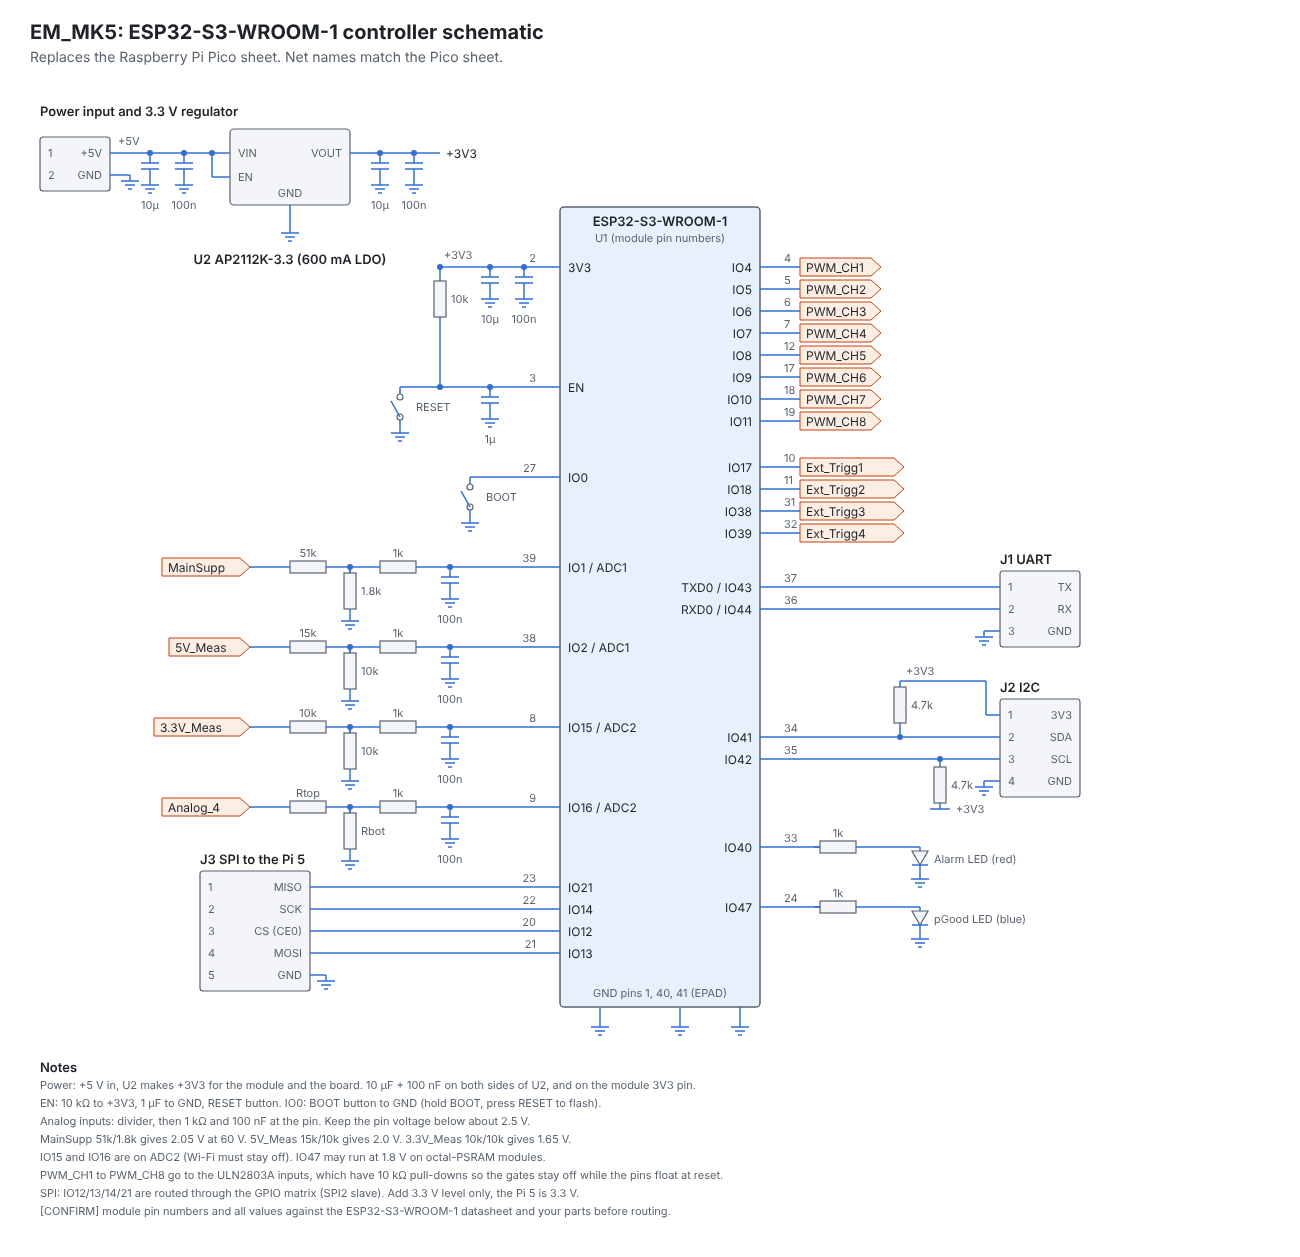
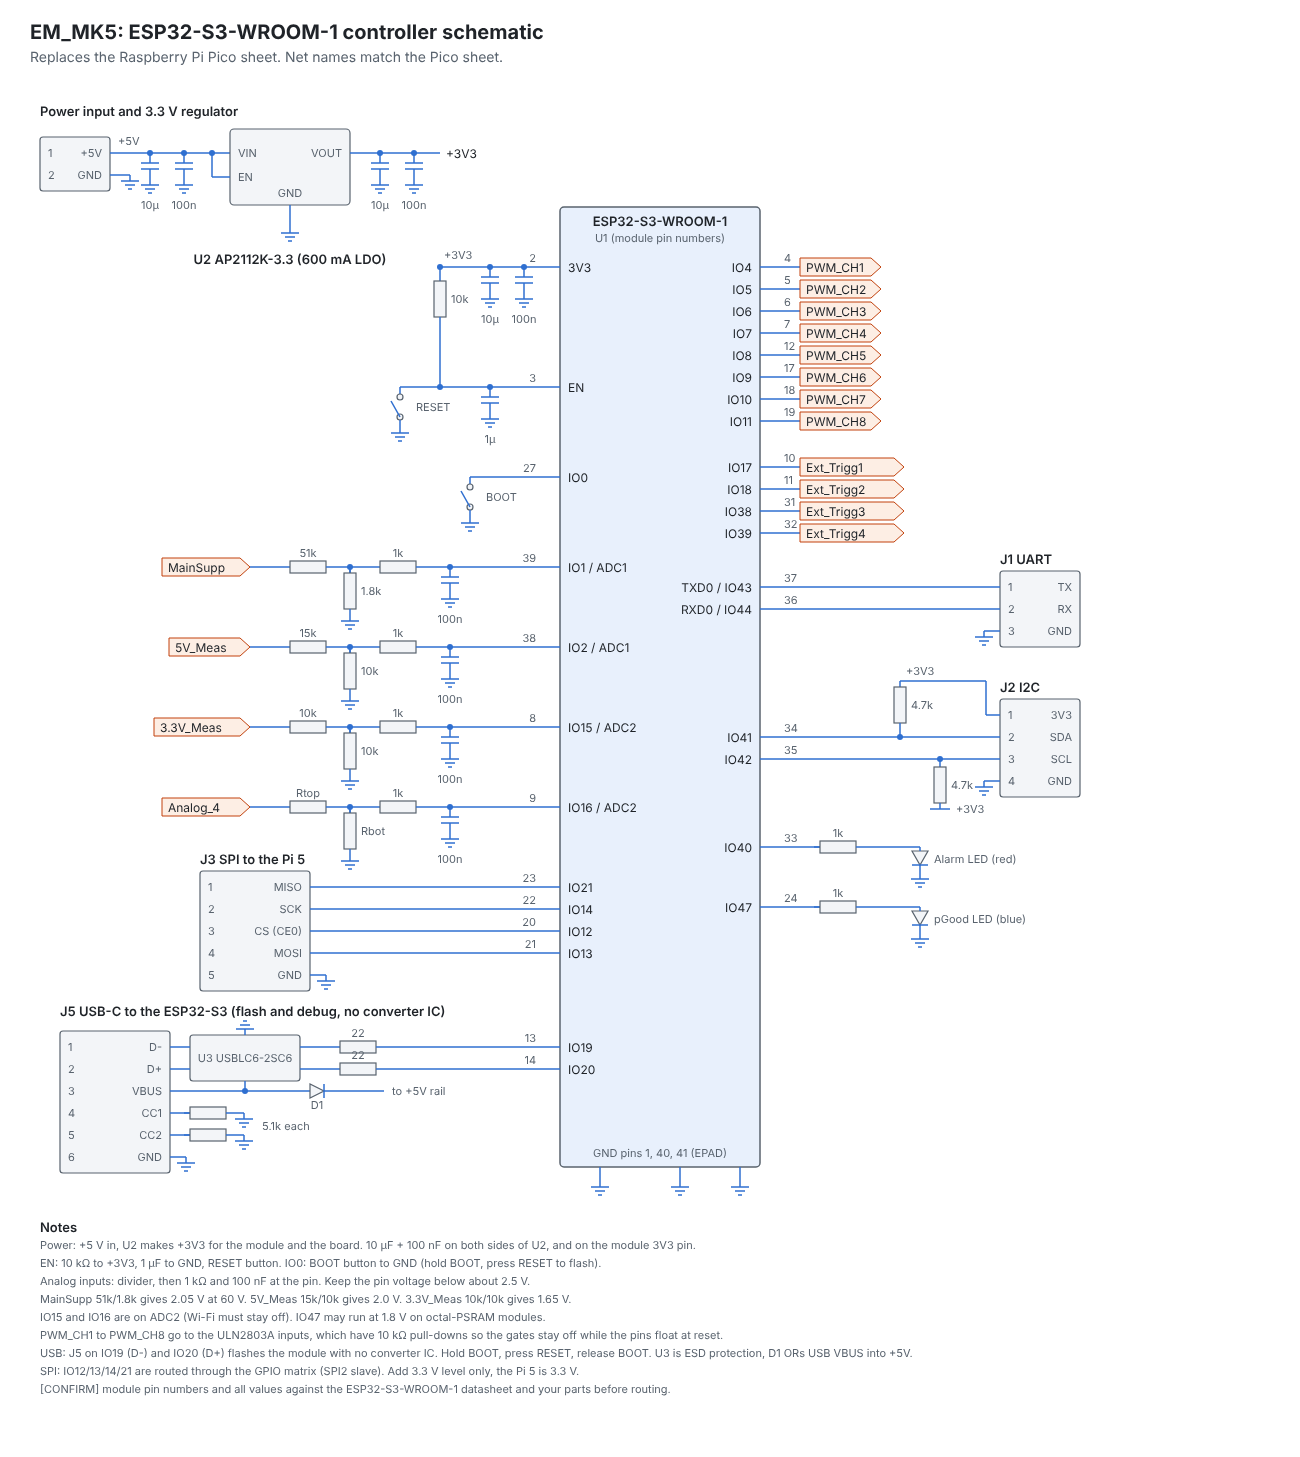
ESP32-S3 schematic: add USB-C (IO19/IO20, ESD, CC resistors, VBUS diode)
Claude-Session: https://claude.ai/code/session_0174MNEmDaTV8DPD2QnVHENo

diff --git a/ESP32_S3_schematic.html b/ESP32_S3_schematic.html
@@ -8,25 +8,25 @@ svg{width:100%;max-width:1300px;height:auto;display:block;margin:0 auto}
 .c{stroke:var(--bd);stroke-width:1.2;fill:var(--box)}.m{stroke:var(--bd);stroke-width:1.5;fill:var(--mod)}
 .p{stroke:var(--pb);stroke-width:1;fill:var(--port)}
 .t{font-size:12px;fill:var(--t)}.s{font-size:11px;fill:var(--m)}.th{font-size:13px;font-weight:600;fill:var(--t)}.pt{font-size:12px;fill:var(--t)}
-</style></head><body><h1>EM_MK5: ESP32-S3-WROOM-1 controller schematic</h1><p class="d">Replaces the Raspberry Pi Pico sheet. Net names match the Pico sheet.</p><svg viewBox="0 0 1300 1180" role="img" aria-label="EM_MK5 ESP32-S3 controller schematic"><rect class="m" x="560" y="130" width="200" height="800" rx="4"/>
+</style></head><body><h1>EM_MK5: ESP32-S3-WROOM-1 controller schematic</h1><p class="d">Replaces the Raspberry Pi Pico sheet. Net names match the Pico sheet.</p><svg viewBox="0 0 1300 1380" role="img" aria-label="EM_MK5 ESP32-S3 controller schematic"><rect class="m" x="560" y="130" width="200" height="960" rx="4"/>
 <text class="th" x="660.0" y="144" text-anchor="middle" dominant-baseline="central">ESP32-S3-WROOM-1</text>
 <text class="s" x="660.0" y="161" text-anchor="middle" dominant-baseline="central">U1 (module pin numbers)</text>
-<line class="w" x1="600" y1="930" x2="600" y2="944"/>
-<line class="w" x1="600" y1="944" x2="600" y2="950"/>
-<line class="w" x1="591" y1="950" x2="609" y2="950"/>
-<line class="w" x1="595" y1="954" x2="605" y2="954"/>
-<line class="w" x1="598" y1="958" x2="602" y2="958"/>
-<line class="w" x1="680" y1="930" x2="680" y2="944"/>
-<line class="w" x1="680" y1="944" x2="680" y2="950"/>
-<line class="w" x1="671" y1="950" x2="689" y2="950"/>
-<line class="w" x1="675" y1="954" x2="685" y2="954"/>
-<line class="w" x1="678" y1="958" x2="682" y2="958"/>
-<line class="w" x1="740" y1="930" x2="740" y2="944"/>
-<line class="w" x1="740" y1="944" x2="740" y2="950"/>
-<line class="w" x1="731" y1="950" x2="749" y2="950"/>
-<line class="w" x1="735" y1="954" x2="745" y2="954"/>
-<line class="w" x1="738" y1="958" x2="742" y2="958"/>
-<text class="s" x="660.0" y="916" text-anchor="middle" dominant-baseline="central">GND pins 1, 40, 41 (EPAD)</text>
+<line class="w" x1="600" y1="1090" x2="600" y2="1104"/>
+<line class="w" x1="600" y1="1104" x2="600" y2="1110"/>
+<line class="w" x1="591" y1="1110" x2="609" y2="1110"/>
+<line class="w" x1="595" y1="1114" x2="605" y2="1114"/>
+<line class="w" x1="598" y1="1118" x2="602" y2="1118"/>
+<line class="w" x1="680" y1="1090" x2="680" y2="1104"/>
+<line class="w" x1="680" y1="1104" x2="680" y2="1110"/>
+<line class="w" x1="671" y1="1110" x2="689" y2="1110"/>
+<line class="w" x1="675" y1="1114" x2="685" y2="1114"/>
+<line class="w" x1="678" y1="1118" x2="682" y2="1118"/>
+<line class="w" x1="740" y1="1090" x2="740" y2="1104"/>
+<line class="w" x1="740" y1="1104" x2="740" y2="1110"/>
+<line class="w" x1="731" y1="1110" x2="749" y2="1110"/>
+<line class="w" x1="735" y1="1114" x2="745" y2="1114"/>
+<line class="w" x1="738" y1="1118" x2="742" y2="1118"/>
+<text class="s" x="660.0" y="1076" text-anchor="middle" dominant-baseline="central">GND pins 1, 40, 41 (EPAD)</text>
 <text class="th" x="40" y="34" text-anchor="start" dominant-baseline="central">Power input and 3.3 V regulator</text>
 <rect class="c" x="40" y="60" width="70" height="54" rx="3"/>
 <text class="th" x="40" y="48" text-anchor="start" dominant-baseline="central"></text>
@@ -514,12 +514,88 @@ svg{width:100%;max-width:1300px;height:auto;display:block;margin:0 auto}
 <line class="w" x1="915" y1="866" x2="925" y2="866"/>
 <line class="w" x1="918" y1="870" x2="922" y2="870"/>
 <text class="s" x="934" y="842" text-anchor="start" dominant-baseline="central">pGood LED (blue)</text>
-<text class="th" x="40" y="990" text-anchor="start" dominant-baseline="central">Notes</text>
-<text class="s" x="40" y="1008" text-anchor="start" dominant-baseline="central">Power: +5 V in, U2 makes +3V3 for the module and the board. 10 µF + 100 nF on both sides of U2, and on the module 3V3 pin.</text>
-<text class="s" x="40" y="1026" text-anchor="start" dominant-baseline="central">EN: 10 kΩ to +3V3, 1 µF to GND, RESET button. IO0: BOOT button to GND (hold BOOT, press RESET to flash).</text>
-<text class="s" x="40" y="1044" text-anchor="start" dominant-baseline="central">Analog inputs: divider, then 1 kΩ and 100 nF at the pin. Keep the pin voltage below about 2.5 V.</text>
-<text class="s" x="40" y="1062" text-anchor="start" dominant-baseline="central">MainSupp 51k/1.8k gives 2.05 V at 60 V. 5V_Meas 15k/10k gives 2.0 V. 3.3V_Meas 10k/10k gives 1.65 V.</text>
-<text class="s" x="40" y="1080" text-anchor="start" dominant-baseline="central">IO15 and IO16 are on ADC2 (Wi-Fi must stay off). IO47 may run at 1.8 V on octal-PSRAM modules.</text>
-<text class="s" x="40" y="1098" text-anchor="start" dominant-baseline="central">PWM_CH1 to PWM_CH8 go to the ULN2803A inputs, which have 10 kΩ pull-downs so the gates stay off while the pins float at reset.</text>
-<text class="s" x="40" y="1116" text-anchor="start" dominant-baseline="central">SPI: IO12/13/14/21 are routed through the GPIO matrix (SPI2 slave). Add 3.3 V level only, the Pi 5 is 3.3 V.</text>
-<text class="s" x="40" y="1134" text-anchor="start" dominant-baseline="central">[CONFIRM] module pin numbers and all values against the ESP32-S3-WROOM-1 datasheet and your parts before routing.</text></svg></body></html>
+<text class="th" x="60" y="934" text-anchor="start" dominant-baseline="central">J5 USB-C to the ESP32-S3 (flash and debug, no converter IC)</text>
+<rect class="c" x="60" y="954" width="110" height="142" rx="3"/>
+<text class="th" x="60" y="942" text-anchor="start" dominant-baseline="central"></text>
+<text class="s" x="68" y="970" text-anchor="start" dominant-baseline="central">1</text>
+<text class="s" x="162" y="970" text-anchor="end" dominant-baseline="central">D-</text>
+<text class="s" x="68" y="992" text-anchor="start" dominant-baseline="central">2</text>
+<text class="s" x="162" y="992" text-anchor="end" dominant-baseline="central">D+</text>
+<text class="s" x="68" y="1014" text-anchor="start" dominant-baseline="central">3</text>
+<text class="s" x="162" y="1014" text-anchor="end" dominant-baseline="central">VBUS</text>
+<text class="s" x="68" y="1036" text-anchor="start" dominant-baseline="central">4</text>
+<text class="s" x="162" y="1036" text-anchor="end" dominant-baseline="central">CC1</text>
+<text class="s" x="68" y="1058" text-anchor="start" dominant-baseline="central">5</text>
+<text class="s" x="162" y="1058" text-anchor="end" dominant-baseline="central">CC2</text>
+<text class="s" x="68" y="1080" text-anchor="start" dominant-baseline="central">6</text>
+<text class="s" x="162" y="1080" text-anchor="end" dominant-baseline="central">GND</text>
+<rect class="c" x="190" y="958" width="110" height="46" rx="3"/>
+<text class="s" x="245" y="981" text-anchor="middle" dominant-baseline="central">U3 USBLC6-2SC6</text>
+<line class="w" x1="170" y1="970" x2="190" y2="970"/>
+<line class="w" x1="300" y1="970" x2="334" y2="970"/>
+<line class="w" x1="334" y1="970" x2="340" y2="970"/>
+<rect class="c" x="340" y="964" width="36" height="12"/>
+<line class="w" x1="376" y1="970" x2="382" y2="970"/>
+<text class="s" x="358" y="956" text-anchor="middle" dominant-baseline="central">22</text>
+<line class="w" x1="382" y1="970" x2="540" y2="970"/>
+<line class="w" x1="170" y1="992" x2="190" y2="992"/>
+<line class="w" x1="300" y1="992" x2="334" y2="992"/>
+<line class="w" x1="334" y1="992" x2="340" y2="992"/>
+<rect class="c" x="340" y="986" width="36" height="12"/>
+<line class="w" x1="376" y1="992" x2="382" y2="992"/>
+<text class="s" x="358" y="978" text-anchor="middle" dominant-baseline="central">22</text>
+<line class="w" x1="382" y1="992" x2="540" y2="992"/>
+<line class="w" x1="540" y1="970" x2="560" y2="970"/>
+<text class="t" x="568" y="970" text-anchor="start" dominant-baseline="central">IO19</text>
+<text class="s" x="536" y="961" text-anchor="end" dominant-baseline="central">13</text>
+<line class="w" x1="540" y1="992" x2="560" y2="992"/>
+<text class="t" x="568" y="992" text-anchor="start" dominant-baseline="central">IO20</text>
+<text class="s" x="536" y="983" text-anchor="end" dominant-baseline="central">14</text>
+<line class="w" x1="245" y1="958" x2="245" y2="952"/>
+<line class="w" x1="236" y1="952" x2="254" y2="952"/>
+<line class="w" x1="240" y1="948" x2="250" y2="948"/>
+<line class="w" x1="243" y1="944" x2="247" y2="944"/>
+<line class="w" x1="245" y1="1004" x2="245" y2="1014"/>
+<circle class="d" cx="245" cy="1014" r="3"/>
+<line class="w" x1="170" y1="1014" x2="310" y2="1014"/>
+<polygon class="c" points="310,1007 310,1021 324,1014"/>
+<line class="w" x1="324" y1="1007" x2="324" y2="1021"/>
+<line class="w" x1="324" y1="1014" x2="384" y2="1014"/>
+<text class="s" x="317" y="1028" text-anchor="middle" dominant-baseline="central">D1</text>
+<text class="s" x="392" y="1014" text-anchor="start" dominant-baseline="central">to +5V rail</text>
+<line class="w" x1="170" y1="1036" x2="190" y2="1036"/>
+<line class="w" x1="184" y1="1036" x2="190" y2="1036"/>
+<rect class="c" x="190" y="1030" width="36" height="12"/>
+<line class="w" x1="226" y1="1036" x2="232" y2="1036"/>
+<text class="s" x="208" y="1022" text-anchor="middle" dominant-baseline="central"></text>
+<line class="w" x1="232" y1="1036" x2="244" y2="1036"/>
+<line class="w" x1="244" y1="1036" x2="244" y2="1042"/>
+<line class="w" x1="235" y1="1042" x2="253" y2="1042"/>
+<line class="w" x1="239" y1="1046" x2="249" y2="1046"/>
+<line class="w" x1="242" y1="1050" x2="246" y2="1050"/>
+<line class="w" x1="170" y1="1058" x2="190" y2="1058"/>
+<line class="w" x1="184" y1="1058" x2="190" y2="1058"/>
+<rect class="c" x="190" y="1052" width="36" height="12"/>
+<line class="w" x1="226" y1="1058" x2="232" y2="1058"/>
+<text class="s" x="208" y="1044" text-anchor="middle" dominant-baseline="central"></text>
+<line class="w" x1="232" y1="1058" x2="244" y2="1058"/>
+<line class="w" x1="244" y1="1058" x2="244" y2="1064"/>
+<line class="w" x1="235" y1="1064" x2="253" y2="1064"/>
+<line class="w" x1="239" y1="1068" x2="249" y2="1068"/>
+<line class="w" x1="242" y1="1072" x2="246" y2="1072"/>
+<text class="s" x="262" y="1049.0" text-anchor="start" dominant-baseline="central">5.1k each</text>
+<line class="w" x1="170" y1="1080" x2="186" y2="1080"/>
+<line class="w" x1="186" y1="1080" x2="186" y2="1086"/>
+<line class="w" x1="177" y1="1086" x2="195" y2="1086"/>
+<line class="w" x1="181" y1="1090" x2="191" y2="1090"/>
+<line class="w" x1="184" y1="1094" x2="188" y2="1094"/>
+<text class="th" x="40" y="1150" text-anchor="start" dominant-baseline="central">Notes</text>
+<text class="s" x="40" y="1168" text-anchor="start" dominant-baseline="central">Power: +5 V in, U2 makes +3V3 for the module and the board. 10 µF + 100 nF on both sides of U2, and on the module 3V3 pin.</text>
+<text class="s" x="40" y="1186" text-anchor="start" dominant-baseline="central">EN: 10 kΩ to +3V3, 1 µF to GND, RESET button. IO0: BOOT button to GND (hold BOOT, press RESET to flash).</text>
+<text class="s" x="40" y="1204" text-anchor="start" dominant-baseline="central">Analog inputs: divider, then 1 kΩ and 100 nF at the pin. Keep the pin voltage below about 2.5 V.</text>
+<text class="s" x="40" y="1222" text-anchor="start" dominant-baseline="central">MainSupp 51k/1.8k gives 2.05 V at 60 V. 5V_Meas 15k/10k gives 2.0 V. 3.3V_Meas 10k/10k gives 1.65 V.</text>
+<text class="s" x="40" y="1240" text-anchor="start" dominant-baseline="central">IO15 and IO16 are on ADC2 (Wi-Fi must stay off). IO47 may run at 1.8 V on octal-PSRAM modules.</text>
+<text class="s" x="40" y="1258" text-anchor="start" dominant-baseline="central">PWM_CH1 to PWM_CH8 go to the ULN2803A inputs, which have 10 kΩ pull-downs so the gates stay off while the pins float at reset.</text>
+<text class="s" x="40" y="1276" text-anchor="start" dominant-baseline="central">USB: J5 on IO19 (D-) and IO20 (D+) flashes the module with no converter IC. Hold BOOT, press RESET, release BOOT. U3 is ESD protection, D1 ORs USB VBUS into +5V.</text>
+<text class="s" x="40" y="1294" text-anchor="start" dominant-baseline="central">SPI: IO12/13/14/21 are routed through the GPIO matrix (SPI2 slave). Add 3.3 V level only, the Pi 5 is 3.3 V.</text>
+<text class="s" x="40" y="1312" text-anchor="start" dominant-baseline="central">[CONFIRM] module pin numbers and all values against the ESP32-S3-WROOM-1 datasheet and your parts before routing.</text></svg></body></html>
